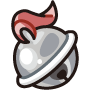
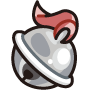
replace delta orb by green orb

diff --git a/app/core/pokemon-state.ts b/app/core/pokemon-state.ts
@@ -191,15 +191,15 @@ export default class PokemonState {
         const damageBlocked = pokemon.effects.has(Effect.JUSTIFIED)
           ? 15
           : pokemon.effects.has(Effect.DEFIANT)
-          ? 10
-          : pokemon.effects.has(Effect.STURDY)
-          ? 7
-          : 4
+            ? 10
+            : pokemon.effects.has(Effect.STURDY)
+              ? 7
+              : 4
         reducedDamage = reducedDamage - damageBlocked
         pokemon.count.fightingBlockCount++
       }
 
-      if(pokemon.passive === Passive.WONDER_GUARD){
+      if (pokemon.passive === Passive.WONDER_GUARD) {
         const damageBlocked = 20
         reducedDamage = reducedDamage - damageBlocked
       }
@@ -296,13 +296,13 @@ export default class PokemonState {
           const healBonus = pokemon.effects.has(Effect.FORGOTTEN_POWER)
             ? 1
             : pokemon.effects.has(Effect.ELDER_POWER)
-            ? 0.8
-            : 0.4
+              ? 0.8
+              : 0.4
           const attackBonus = pokemon.effects.has(Effect.FORGOTTEN_POWER)
             ? 1
             : pokemon.effects.has(Effect.ELDER_POWER)
-            ? 0.6
-            : 0.3
+              ? 0.6
+              : 0.3
           pokemon.life = pokemon.hp * healBonus
           pokemon.addAttack(pokemon.baseAtk * attackBonus)
           SynergyEffects[Synergy.FOSSIL].forEach((e) =>
@@ -451,8 +451,8 @@ export default class PokemonState {
         let heal = pokemon.effects.has(Effect.SPORE)
           ? 30
           : pokemon.effects.has(Effect.GROWTH)
-          ? 15
-          : 8
+            ? 15
+            : 8
         if (
           pokemon.effects.has(Effect.HYDRATATION) &&
           pokemon.simulation.weather === Weather.RAIN
@@ -520,6 +520,17 @@ export default class PokemonState {
       }
       if (pokemon.items.has(Item.METRONOME)) {
         pokemon.addPP(5)
+      }
+      if (pokemon.items.has(Item.GREEN_ORB)) {
+        for (const cell of board.getAdjacentCells(
+          pokemon.positionX,
+          pokemon.positionY,
+          true
+        )) {
+          if (cell.value && cell.value.team === pokemon.team) {
+            cell.value.handleHeal(0.05 * cell.value.hp, pokemon, 0)
+          }
+        }
       }
       pokemon.manaCooldown = 1000
     } else {

diff --git a/app/public/src/pages/utils/audio.ts b/app/public/src/pages/utils/audio.ts
@@ -51,9 +51,9 @@ function setupSounds() {
 preloadSounds()
 setupSounds()
 
-export function playSound(key: Soundkey) {
+export function playSound(key: Soundkey, volume?: number) {
   if (AUDIO_ELEMENTS[key]) {
-    AUDIO_ELEMENTS[key]!.volume = preferences.sfxVolume / 100
+    AUDIO_ELEMENTS[key]!.volume = volume || preferences.sfxVolume / 100
     AUDIO_ELEMENTS[key]!.play()
   }
 }
@@ -61,7 +61,7 @@ export function playSound(key: Soundkey) {
 type SceneWithMusic = Phaser.Scene & { music?: Phaser.Sound.WebAudioSound }
 
 export function playMusic(scene: SceneWithMusic, name: string) {
-  if (scene == null || scene.music?.key === "music_"+name) return
+  if (scene == null || scene.music?.key === "music_" + name) return
   if (scene.music) scene.music.destroy()
   scene.music = scene.sound.add("music_" + name, {
     loop: true

diff --git a/app/types/enum/Item.ts b/app/types/enum/Item.ts
@@ -31,7 +31,7 @@ export enum Item {
   BLUE_ORB = "BLUE_ORB",
   SCOPE_LENS = "SCOPE_LENS",
   STAR_DUST = "STAR_DUST",
-  DELTA_ORB = "DELTA_ORB",
+  GREEN_ORB = "GREEN_ORB",
   MANA_SCARF = "MANA_SCARF",
   SMOKE_BALL = "SMOKE_BALL",
   XRAY_VISION = "XRAY_VISION",
@@ -135,7 +135,7 @@ export const ItemRecipe: { [key in Item]?: Item[] } = {
   [Item.BLUE_ORB]: [Item.MYSTIC_WATER, Item.MAGNET],
   [Item.SCOPE_LENS]: [Item.MYSTIC_WATER, Item.BLACK_GLASSES],
   [Item.STAR_DUST]: [Item.MYSTIC_WATER, Item.MIRACLE_SEED],
-  [Item.DELTA_ORB]: [Item.MYSTIC_WATER, Item.NEVER_MELT_ICE],
+  [Item.GREEN_ORB]: [Item.MYSTIC_WATER, Item.NEVER_MELT_ICE],
   [Item.MANA_SCARF]: [Item.MYSTIC_WATER, Item.CHARCOAL],
   [Item.SMOKE_BALL]: [Item.MYSTIC_WATER, Item.HEART_SCALE],
   [Item.XRAY_VISION]: [Item.MAGNET, Item.MAGNET],

diff --git a/app/types/Config.ts b/app/types/Config.ts
@@ -7,7 +7,6 @@ import { Weather } from "./enum/Weather"
 
 export const ON_ATTACK_MANA = 5
 export const MANA_SCARF_MANA = 8
-export const DELTA_ORB_MANA = 4
 export const SCOPE_LENS_MANA = 15
 
 export const BOARD_WIDTH = 8
@@ -570,7 +569,7 @@ export const ItemStats: Record<Item, { [stat in Stat]?: number }> = {
   [Item.BLUE_ORB]: { [Stat.PP]: 15, [Stat.ATK_SPEED]: 10 },
   [Item.SCOPE_LENS]: { [Stat.PP]: 15, [Stat.CRIT_CHANCE]: 25 },
   [Item.STAR_DUST]: { [Stat.PP]: 15, [Stat.SHIELD]: 15 },
-  [Item.DELTA_ORB]: { [Stat.PP]: 15, [Stat.SPE_DEF]: 2 },
+  [Item.GREEN_ORB]: { [Stat.PP]: 15, [Stat.SPE_DEF]: 2 },
   [Item.MANA_SCARF]: { [Stat.PP]: 15, [Stat.ATK]: 3 },
   [Item.SMOKE_BALL]: { [Stat.PP]: 15, [Stat.DEF]: 2 },
   [Item.XRAY_VISION]: { [Stat.ATK_SPEED]: 50 },

diff --git a/db-commands/5.1/update-items.ts b/db-commands/5.1/update-items.ts
@@ -1,13 +1,14 @@
 import dotenv from "dotenv"
 import { connect } from "mongoose"
-import { BotV2 } from "../app/models/mongo-models/bot-v2"
-import { ItemsStatistics } from "../app/models/mongo-models/items-statistic"
-import { Item } from "../app/types/enum/Item"
-import { logger } from "../app/utils/logger"
+import { BotV2 } from "../../app/models/mongo-models/bot-v2"
+import { ItemsStatistics } from "../../app/models/mongo-models/items-statistic"
+import { Item } from "../../app/types/enum/Item"
+import { logger } from "../../app/utils/logger"
 
 const itemsToReplace = new Map<string, Item>([
   ["ORAN_BERRY", Item.KINGS_ROCK],
-  ["LEFTOVERS", Item.SOOTHE_BELL]
+  ["LEFTOVERS", Item.SOOTHE_BELL],
+  ["DELTA_ORB", Item.GREEN_ORB]
 ])
 
 async function main() {

diff --git a/app/public/src/pages/after-game.tsx b/app/public/src/pages/after-game.tsx
@@ -4,6 +4,7 @@ import React, { useEffect, useRef, useState } from "react"
 import { Navigate } from "react-router-dom"
 import AfterGameState from "../../../rooms/states/after-game-state"
 import { useAppDispatch, useAppSelector } from "../hooks"
+import { preferences } from "../preferences"
 import {
   addPlayer,
   leaveAfter,
@@ -76,7 +77,7 @@ export default function AfterGame() {
       r.state.players.onAdd((player) => {
         dispatch(addPlayer(player))
         if (player.id === currentPlayerId) {
-          playSound(SOUNDS["FINISH" + player.rank])
+          playSound(SOUNDS["FINISH" + player.rank], preferences.musicVolume / 100)
         }
       })
       r.state.listen("elligibleToELO", (value, previousValue) => {

diff --git a/app/public/src/pages/component/collection/unown-panel.tsx b/app/public/src/pages/component/collection/unown-panel.tsx
@@ -15,10 +15,10 @@ export default function UnownPanel(props: {
     (state) => state.lobby.pokemonCollection
   )
   const secretMessage = `    
-    To unleash ancient power ?
-    Max Groudon with a red Orb
-    Delta Sphere over Rayquaza
-    And blue Jewel for Kyogre!
+    To unleash ancient powers?
+    Max Groudon with a red orb
+    Give Kyogre a blue orb and
+    use Jade orb for Rayquaza!
     `
     .replace(/^\s+/gm, "")
     .replace(/\s+$/gm, "")
@@ -42,7 +42,7 @@ export default function UnownPanel(props: {
           return (b.config?.dust ?? 0) - (a.config?.dust ?? 0)
         }
       }),
-    [props.sort]
+    [props.sort, pokemonCollection]
   )
 
   return (

diff --git a/app/core/simulation.ts b/app/core/simulation.ts
@@ -557,18 +557,6 @@ export default class Simulation extends Schema implements ISimulation {
           })
         }
 
-        if (pokemon.items.has(Item.DELTA_ORB)) {
-          ;[-1, 0, 1].forEach((offset) => {
-            const value = this.board.getValue(
-              pokemon.positionX + offset,
-              pokemon.positionY
-            )
-            if (value) {
-              value.status.deltaOrbStacks += 1
-            }
-          })
-        }
-
         if (pokemon.items.has(Item.EXP_SHARE)) {
           ;[-1, 1].forEach((offset) => {
             const value = this.board.getValue(

diff --git a/app/core/pokemon-entity.ts b/app/core/pokemon-entity.ts
@@ -17,7 +17,6 @@ import {
 import {
   DEFAULT_CRIT_CHANCE,
   DEFAULT_CRIT_DAMAGE,
-  DELTA_ORB_MANA,
   MANA_SCARF_MANA,
   ON_ATTACK_MANA,
   SCOPE_LENS_MANA
@@ -606,9 +605,6 @@ export class PokemonEntity extends Schema implements IPokemonEntity {
 
     if (this.items.has(Item.MANA_SCARF)) {
       this.addPP(MANA_SCARF_MANA)
-    }
-    if (this.status.deltaOrbStacks > 0) {
-      this.addPP(DELTA_ORB_MANA * this.status.deltaOrbStacks)
     }
 
     if (this.effects.has(Effect.TELEPORT_NEXT_ATTACK)) {

diff --git a/app/public/src/game/components/item-detail.css b/app/public/src/game/components/item-detail.css
@@ -3,7 +3,7 @@
   max-width: 400px;
   color: white;
   display: grid;
-  grid-template-columns: 50px 1fr;
+  grid-template-columns: 55px 1fr;
   grid-template-areas:
     "icon name"
     "icon stats"
@@ -16,8 +16,8 @@
 }
 
 .game-item-detail-icon {
-  width: 40px;
-  height: 40px;
+  width: 45px;
+  height: 45px;
   image-rendering: pixelated;
   object-fit: contain;
   grid-area: icon;

diff --git a/app/models/colyseus-models/pokemon.ts b/app/models/colyseus-models/pokemon.ts
@@ -5191,7 +5191,7 @@ export class Rayquaza extends Pokemon {
   rarity = Rarity.LEGENDARY
   stars = 3
   evolution = Pkm.MEGA_RAYQUAZA
-  evolutionRule = new ItemEvolutionRule([Item.DELTA_ORB])
+  evolutionRule = new ItemEvolutionRule([Item.GREEN_ORB])
   hp = 300
   atk = 30
   def = 5

diff --git a/app/public/dist/client/sw.js b/app/public/dist/client/sw.js
@@ -1,7 +1,7 @@
 /* Change this cache name every time you want to force players 
   to invalidate their cache and download all assets again */
 
-const CACHE_NAME = "CACHE v5.0.0.192"
+const CACHE_NAME = "CACHE v5.0.0.194"
 
 // Cache-first strategy
 const cacheFirst = (event) => {
